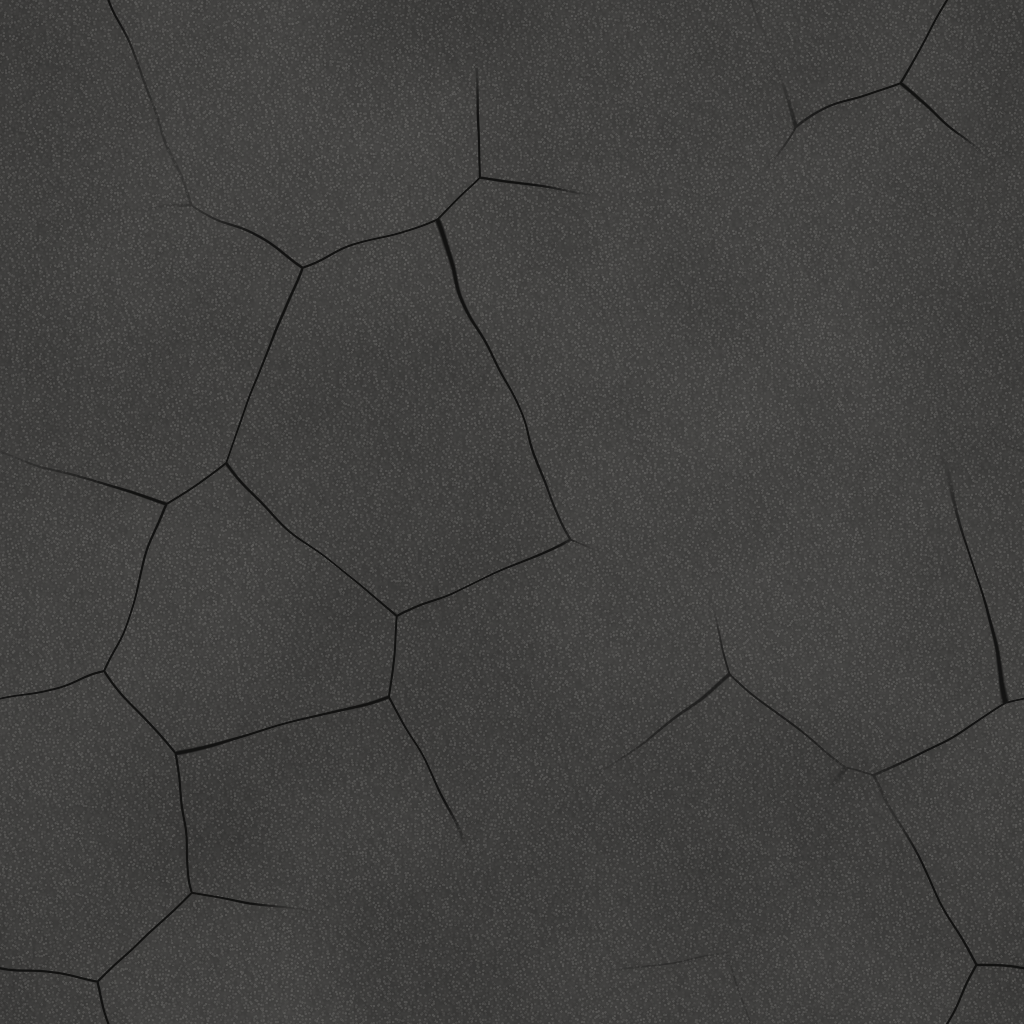
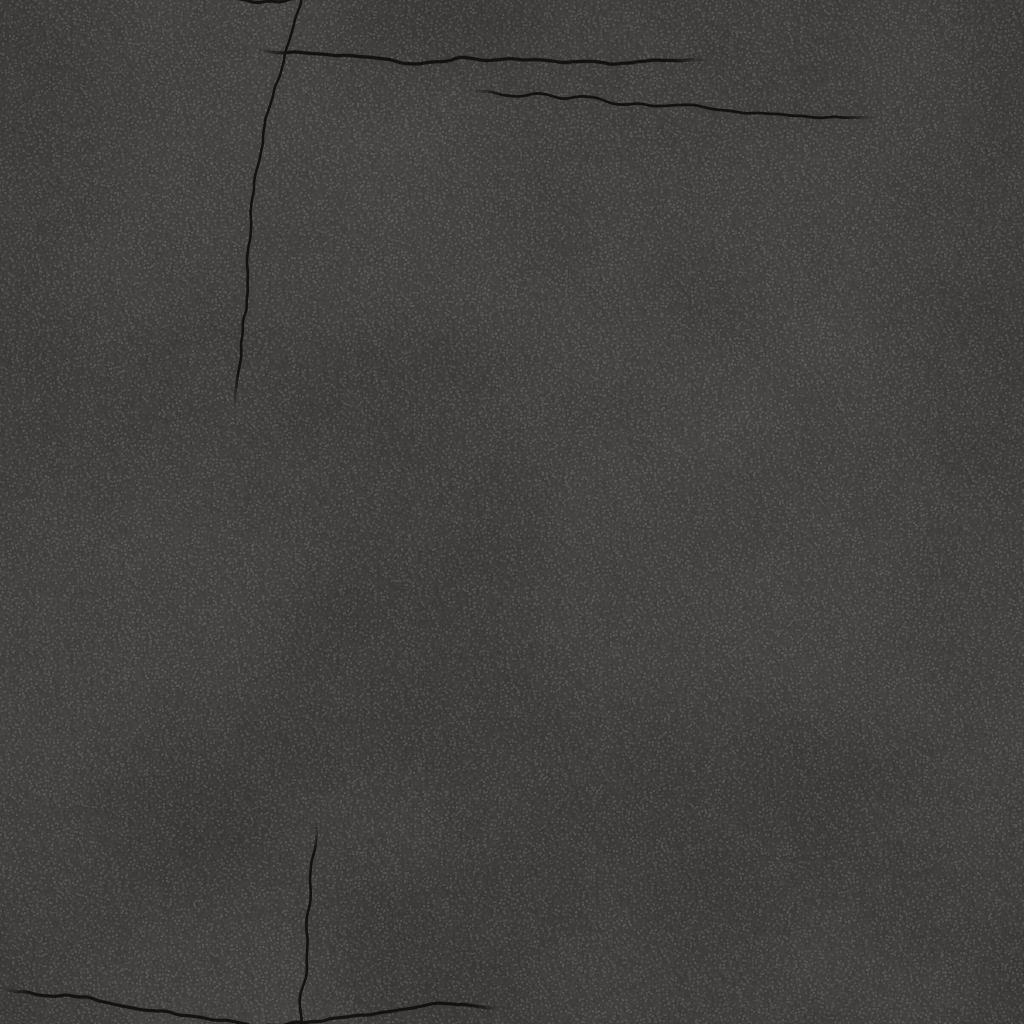
vehicle-pad: asphalt cracks as a few wandering sealed lines across and along the road instead of a polygon network
Claude-Session: https://claude.ai/code/session_01PzbhGSo8poSxwMDC2bD922

diff --git a/tools/vehicle/bake-textures.ts b/tools/vehicle/bake-textures.ts
@@ -727,9 +727,29 @@ const recipes: Record<string, () => void> = {
       const c = worley(u, v, 300, 300, 541, 1);
       return smooth(0.5, 0.2, c.f1) * c.id;
     });
+    // Cracks in a road run across it (thermal) and along it (at the edge of a paving pass), as single wandering
+    // lines that were sealed with a band of tar: no network of polygons.
+    const lines: { across: boolean; at: number; from: number; to: number; w: number; k: number; slope: number }[] = [];
+    for (let k = 0; k < 4; k++) {
+      const r = (q: number): number => hash(k, q, 549);
+      const len = 0.3 + 0.55 * r(3);
+      lines.push({ across: k < 3, at: r(1), from: r(2), to: r(2) + len, w: 0.0016 + 0.0022 * r(4), k, slope: (r(5) - 0.5) * 0.25 });
+    }
     const crack = (u: number, v: number): number => {
-      const c = worley(u + 0.02 * fbm(u, v, 10, 10, 2, 542), v + 0.02 * fbm(u, v, 10, 10, 2, 543), 4, 4, 544, 1);
-      return smooth(0.012, 0.003, c.f2 - c.f1) * smooth(0.45, 0.6, fbm(u, v, 3, 3, 2, 545));
+      let c = 0;
+      for (const l of lines) {
+        const a = l.across ? u : v;
+        const b = l.across ? v : u;
+        // Position along the line (wrapped into [from, from + 1)) and the line's wander across.
+        const t = mod(a - l.from, 1);
+        if (t > l.to - l.from) continue;
+        const end = smooth(0, 0.04, t) * smooth(l.to - l.from, l.to - l.from - 0.04, t);
+        const off = l.slope * t + 0.05 * (fbm(a, l.k * 0.37, 4, 1, 3, 542 + l.k) - 0.5) + 0.006 * (fbm(a, l.k * 0.61, 40, 1, 2, 543 + l.k) - 0.5);
+        let d = Math.abs(mod(b - l.at - off + 0.5, 1) - 0.5);
+        d = d / l.w;
+        c = Math.max(c, end * smooth(1, 0.35, d));
+      }
+      return c;
     };
     const h = Field.from(S, S, (u, v, x, y) => 0.004 * stone.at(x, y) + 0.006 * fbm(u, v, 20, 20, 3, 546) + 0.002 * crack(u, v));
     save('asphalt_n', normalMap(h, 6, 0.8));
